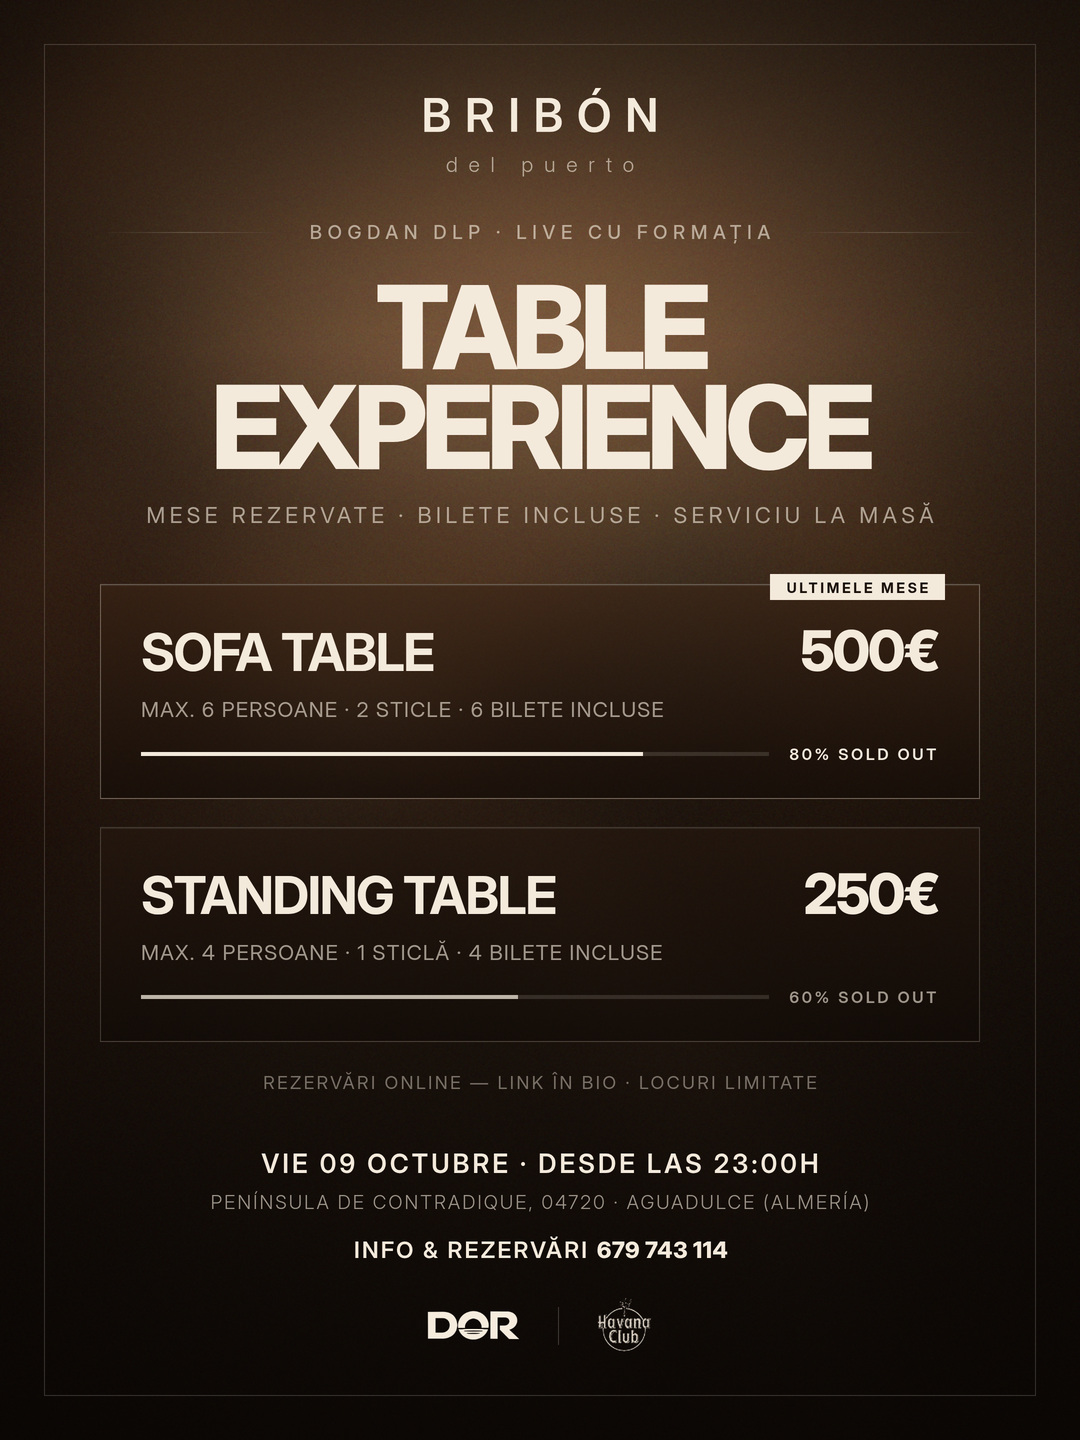
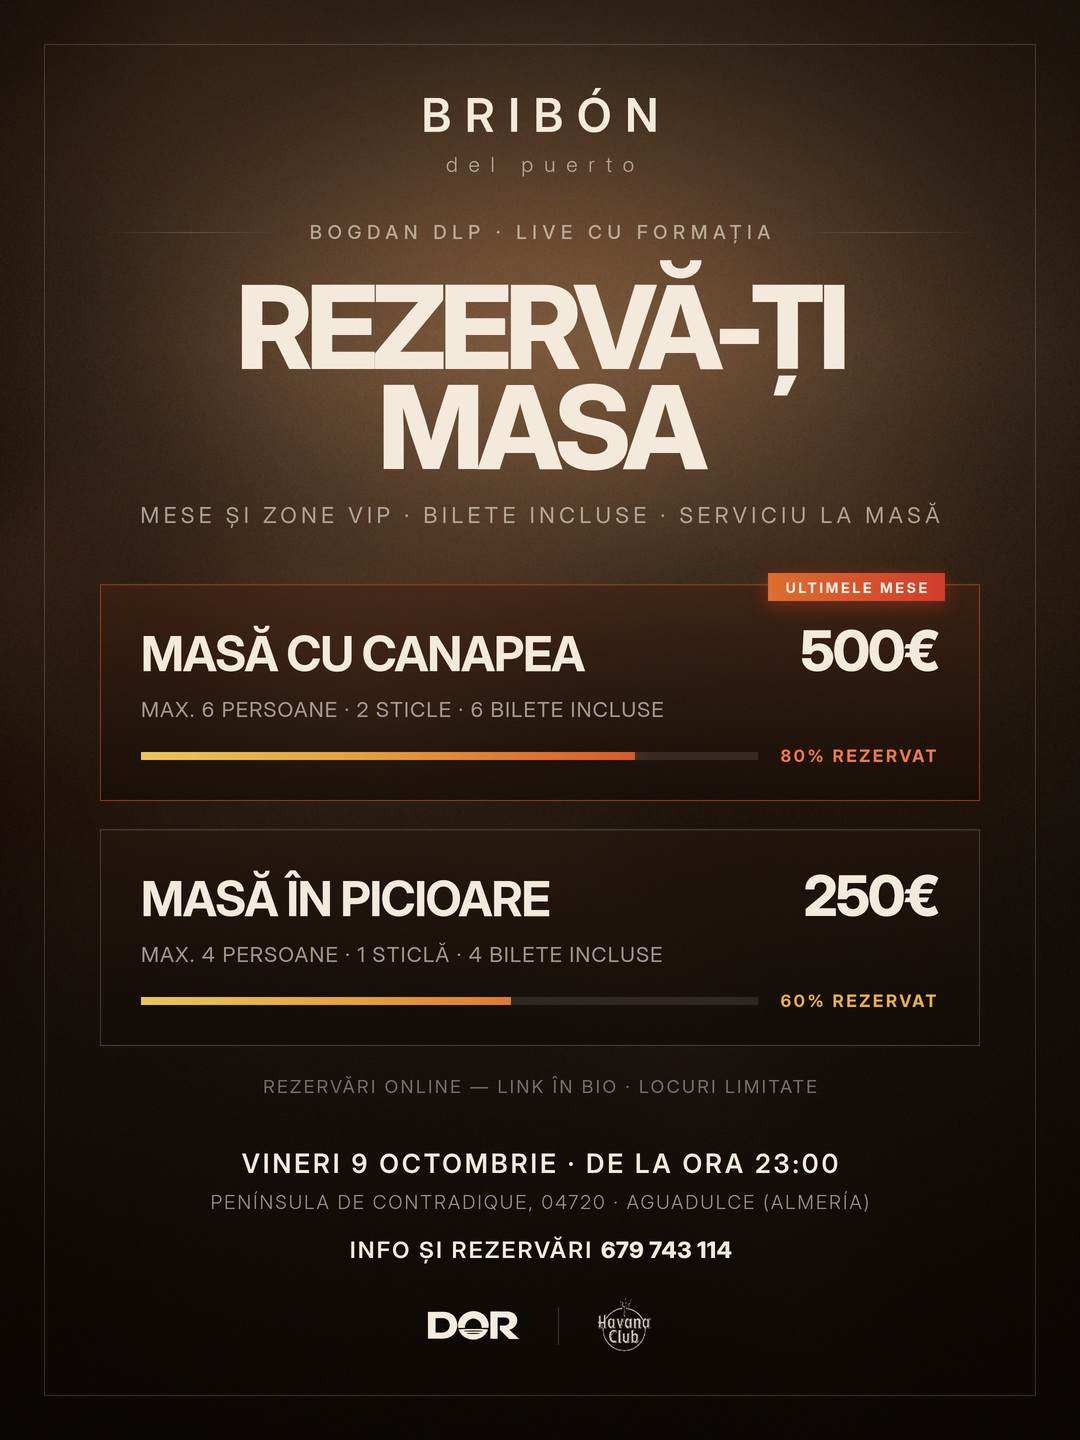
design: translate table graphic to Romanian, add heat-scale availability bars
All copy is now Romanian ("REZERVĂ-ȚI MASA", "MASĂ CU CANAPEA",
"MASĂ ÎN PICIOARE", "% REZERVAT", "VINERI 9 OCTOMBRIE · DE LA ORA 23:00");
only proper nouns stay in the original.

The availability bars carry a shared heat scale (gold -> amber -> orange ->
red) stretched across the full track, with the fill clipping it at the real
percentage. 80% therefore lands in red and 60% stops in orange, so the color
itself reads as urgency. The featured card's border and "ULTIMELE MESE" badge
pick up the same warm accent.

Claude-Session: https://claude.ai/code/session_018LVxPFaAmNJPzujNDfX4Ru

diff --git a/design/dor-mese/mese.html b/design/dor-mese/mese.html
@@ -2,7 +2,7 @@
 <html lang="ro">
 <head>
 <meta charset="utf-8">
-<title>DOR — Table Experience</title>
+<title>DOR — Rezervă-ți masa</title>
 <style>
   @font-face{font-family:ID;src:url(fonts/InterDisplay-ExtraLight.ttf);font-weight:200}
   @font-face{font-family:ID;src:url(fonts/InterDisplay-Light.ttf);font-weight:300}
@@ -18,6 +18,10 @@
     --cream-dim:rgba(244,234,220,.62);
     --cream-faint:rgba(244,234,220,.44);
     --line:rgba(244,234,220,.20);
+    /* scara de ocupare: auriu -> chihlimbar -> portocaliu -> roșu */
+    --heat:linear-gradient(90deg,#E9C65C 0%,#E4A33F 34%,#DC6F30 67%,#D13B2B 100%);
+    --hot:#EE7A45;
+    --warm:#EBAE4E;
   }
   *{margin:0;padding:0;box-sizing:border-box}
   html,body{width:1080px;height:1440px}
@@ -31,14 +35,13 @@
   .canvas{position:relative;width:1080px;height:1440px;overflow:hidden}
   .bg{position:absolute;inset:0;width:100%;height:100%;object-fit:cover}
   .scrim{position:absolute;inset:0;
-    background:
-      linear-gradient(180deg,rgba(12,8,5,.42) 0%,rgba(12,8,5,.00) 24%,rgba(12,8,5,.30) 56%,rgba(9,6,4,.82) 100%);
+    background:linear-gradient(180deg,rgba(12,8,5,.42) 0%,rgba(12,8,5,.00) 24%,rgba(12,8,5,.30) 56%,rgba(9,6,4,.82) 100%);
   }
   .frame{position:absolute;inset:44px;border:1px solid rgba(244,234,220,.18)}
 
   .inner{position:absolute;inset:0;padding:92px 100px 86px;display:flex;flex-direction:column;align-items:center}
 
-  /* ---------- venue lockup ---------- */
+  /* ---------- lockup locație ---------- */
   .venue{font-weight:600;font-size:46px;letter-spacing:.30em;text-indent:.30em;line-height:1}
   .venue-sub{margin-top:14px;font-weight:300;font-size:21px;letter-spacing:.52em;text-indent:.52em;color:var(--cream-dim)}
 
@@ -47,14 +50,12 @@
   .kicker .rule{flex:1;height:1px;background:linear-gradient(90deg,transparent,var(--line),transparent)}
   .kicker span{font-weight:500;font-size:19px;letter-spacing:.30em;text-indent:.30em;color:var(--cream-dim);white-space:nowrap}
 
-  /* ---------- headline ---------- */
+  /* ---------- titlu ---------- */
   .head{margin-top:34px;text-align:center}
-  .head .l1{font-weight:800;font-size:116px;letter-spacing:-.055em;line-height:.86}
-  .head .l2{font-weight:800;font-size:116px;letter-spacing:-.055em;line-height:.86}
-  .head .l2 em{font-style:normal;font-weight:200;letter-spacing:-.02em}
+  .head .l{font-weight:800;font-size:116px;letter-spacing:-.055em;line-height:.86}
   .head-sub{margin-top:24px;font-weight:400;font-size:22px;letter-spacing:.20em;text-indent:.20em;color:var(--cream-dim)}
 
-  /* ---------- cards ---------- */
+  /* ---------- carduri ---------- */
   .cards{margin-top:56px;width:100%;display:flex;flex-direction:column;gap:28px}
   .card{
     position:relative;
@@ -63,26 +64,31 @@
     background:linear-gradient(180deg,rgba(38,24,15,.50),rgba(16,10,6,.62));
     padding:38px 40px 34px;
   }
-  .card.hot{border-color:rgba(244,234,220,.34);background:linear-gradient(180deg,rgba(58,36,21,.58),rgba(20,12,7,.66))}
+  .card.hot{border-color:rgba(221,91,46,.55);background:linear-gradient(180deg,rgba(66,34,18,.60),rgba(20,12,7,.66))}
   .tag{
-    position:absolute;top:-11px;right:34px;
+    position:absolute;top:-12px;right:34px;
     font-weight:700;font-size:14px;letter-spacing:.20em;text-indent:.20em;
-    background:var(--cream);color:#1A100A;padding:5px 14px 4px;
+    background:linear-gradient(90deg,#DC6F30,#D13B2B);color:#FFF3E6;padding:6px 15px 5px;
+    box-shadow:0 4px 18px rgba(209,59,43,.42);
   }
-  .row{display:flex;align-items:baseline;justify-content:space-between}
-  .name{font-weight:700;font-size:52px;letter-spacing:-.025em;line-height:1}
+  .row{display:flex;align-items:baseline;justify-content:space-between;gap:24px}
+  .name{font-weight:700;font-size:48px;letter-spacing:-.025em;line-height:1;white-space:nowrap}
   .price{font-weight:800;font-size:56px;letter-spacing:-.035em;line-height:1}
   .specs{margin-top:18px;font-weight:400;font-size:21px;letter-spacing:.055em;color:var(--cream-dim)}
-  .bar{margin-top:22px;display:flex;align-items:center;gap:18px}
-  .track{flex:1;height:4px;background:rgba(244,234,220,.14);position:relative}
-  .fill{position:absolute;left:0;top:0;bottom:0;background:var(--cream)}
-  .pct{font-weight:600;font-size:16px;letter-spacing:.17em;text-indent:.17em;white-space:nowrap}
-  .card:not(.hot) .pct{color:var(--cream-dim)}
-  .card:not(.hot) .fill{background:rgba(244,234,220,.72)}
+
+  /* ---------- banda de ocupare ---------- */
+  .bar{margin-top:24px;display:flex;align-items:center;gap:20px}
+  .track{flex:1;height:8px;background:rgba(244,234,220,.11);position:relative;overflow:hidden}
+  .fill{position:absolute;left:0;top:0;bottom:0;overflow:hidden}
+  .fill i{position:absolute;left:0;top:0;bottom:0;background:var(--heat);display:block}
+  .pct{font-weight:700;font-size:17px;letter-spacing:.16em;text-indent:.16em;white-space:nowrap}
+  .card.hot .fill{box-shadow:0 0 22px rgba(220,111,48,.45)}
+  .card.hot .pct{color:var(--hot)}
+  .card:not(.hot) .pct{color:var(--warm)}
 
   .note{margin-top:30px;font-weight:400;font-size:18px;letter-spacing:.14em;text-indent:.14em;color:var(--cream-faint);text-align:center;width:100%}
 
-  /* ---------- footer ---------- */
+  /* ---------- subsol ---------- */
   .foot{margin-top:auto;width:100%;text-align:center}
   .foot .when{font-weight:600;font-size:26px;letter-spacing:.12em;text-indent:.12em}
   .foot .where{margin-top:12px;font-weight:300;font-size:19px;letter-spacing:.12em;text-indent:.12em;color:var(--cream-dim)}
@@ -111,28 +117,28 @@
     </div>
 
     <div class="head">
-      <div class="l1">TABLE</div>
-      <div class="l2">EXPERIENCE</div>
-      <div class="head-sub">MESE REZERVATE · BILETE INCLUSE · SERVICIU LA MASĂ</div>
+      <div class="l">REZERVĂ-ȚI</div>
+      <div class="l">MASA</div>
+      <div class="head-sub">MESE ȘI ZONE VIP · BILETE INCLUSE · SERVICIU LA MASĂ</div>
     </div>
 
     <div class="cards">
       <div class="card hot">
         <div class="tag">ULTIMELE MESE</div>
-        <div class="row"><div class="name">SOFA TABLE</div><div class="price">500€</div></div>
+        <div class="row"><div class="name">MASĂ CU CANAPEA</div><div class="price">500€</div></div>
         <div class="specs">MAX. 6 PERSOANE · 2 STICLE · 6 BILETE INCLUSE</div>
         <div class="bar">
-          <div class="track"><div class="fill" style="width:80%"></div></div>
-          <div class="pct">80% SOLD OUT</div>
+          <div class="track"><div class="fill" style="width:80%"><i style="width:125%"></i></div></div>
+          <div class="pct">80% REZERVAT</div>
         </div>
       </div>
 
       <div class="card">
-        <div class="row"><div class="name">STANDING TABLE</div><div class="price">250€</div></div>
+        <div class="row"><div class="name">MASĂ ÎN PICIOARE</div><div class="price">250€</div></div>
         <div class="specs">MAX. 4 PERSOANE · 1 STICLĂ · 4 BILETE INCLUSE</div>
         <div class="bar">
-          <div class="track"><div class="fill" style="width:60%"></div></div>
-          <div class="pct">60% SOLD OUT</div>
+          <div class="track"><div class="fill" style="width:60%"><i style="width:166.667%"></i></div></div>
+          <div class="pct">60% REZERVAT</div>
         </div>
       </div>
     </div>
@@ -140,9 +146,9 @@
     <div class="note">REZERVĂRI ONLINE — LINK ÎN BIO · LOCURI LIMITATE</div>
 
     <div class="foot">
-      <div class="when">VIE 09 OCTUBRE · DESDE LAS 23:00H</div>
+      <div class="when">VINERI 9 OCTOMBRIE · DE LA ORA 23:00</div>
       <div class="where">PENÍNSULA DE CONTRADIQUE, 04720 · AGUADULCE (ALMERÍA)</div>
-      <div class="res">INFO &amp; REZERVĂRI <b>679 743 114</b></div>
+      <div class="res">INFO ȘI REZERVĂRI <b>679 743 114</b></div>
       <div class="logos">
         <img class="dor" src="assets/dor.png">
         <div class="sep"></div>

diff --git a/design/dor-mese/mese_story.html b/design/dor-mese/mese_story.html
@@ -2,7 +2,7 @@
 <html lang="ro">
 <head>
 <meta charset="utf-8">
-<title>DOR — Table Experience Story</title>
+<title>DOR — Rezervă-ți masa (story)</title>
 <style>
   @font-face{font-family:ID;src:url(fonts/InterDisplay-ExtraLight.ttf);font-weight:200}
   @font-face{font-family:ID;src:url(fonts/InterDisplay-Light.ttf);font-weight:300}
@@ -17,6 +17,9 @@
     --cream-dim:rgba(244,234,220,.62);
     --cream-faint:rgba(244,234,220,.44);
     --line:rgba(244,234,220,.20);
+    --heat:linear-gradient(90deg,#E9C65C 0%,#E4A33F 34%,#DC6F30 67%,#D13B2B 100%);
+    --hot:#EE7A45;
+    --warm:#EBAE4E;
   }
   *{margin:0;padding:0;box-sizing:border-box}
   html,body{width:1080px;height:1920px}
@@ -42,18 +45,22 @@
   .cards{margin-top:58px;width:100%;display:flex;flex-direction:column;gap:32px}
   .card{position:relative;border:1px solid var(--line);box-shadow:inset 0 1px 0 rgba(244,234,220,.07);
     background:linear-gradient(180deg,rgba(38,24,15,.50),rgba(16,10,6,.62));padding:38px 42px 34px}
-  .card.hot{border-color:rgba(244,234,220,.34);background:linear-gradient(180deg,rgba(58,36,21,.58),rgba(20,12,7,.66))}
-  .tag{position:absolute;top:-12px;right:36px;font-weight:700;font-size:15px;letter-spacing:.20em;text-indent:.20em;background:var(--cream);color:#1A100A;padding:6px 15px 5px}
-  .row{display:flex;align-items:baseline;justify-content:space-between}
-  .name{font-weight:700;font-size:54px;letter-spacing:-.025em;line-height:1}
+  .card.hot{border-color:rgba(221,91,46,.55);background:linear-gradient(180deg,rgba(66,34,18,.60),rgba(20,12,7,.66))}
+  .tag{position:absolute;top:-12px;right:36px;font-weight:700;font-size:15px;letter-spacing:.20em;text-indent:.20em;
+    background:linear-gradient(90deg,#DC6F30,#D13B2B);color:#FFF3E6;padding:6px 16px 5px;box-shadow:0 4px 18px rgba(209,59,43,.42)}
+  .row{display:flex;align-items:baseline;justify-content:space-between;gap:24px}
+  .name{font-weight:700;font-size:50px;letter-spacing:-.025em;line-height:1;white-space:nowrap}
   .price{font-weight:800;font-size:58px;letter-spacing:-.035em;line-height:1}
   .specs{margin-top:20px;font-weight:400;font-size:22px;letter-spacing:.055em;color:var(--cream-dim)}
-  .bar{margin-top:26px;display:flex;align-items:center;gap:18px}
-  .track{flex:1;height:4px;background:rgba(244,234,220,.14);position:relative}
-  .fill{position:absolute;left:0;top:0;bottom:0;background:var(--cream)}
-  .pct{font-weight:600;font-size:17px;letter-spacing:.17em;text-indent:.17em;white-space:nowrap}
-  .card:not(.hot) .pct{color:var(--cream-dim)}
-  .card:not(.hot) .fill{background:rgba(244,234,220,.72)}
+
+  .bar{margin-top:26px;display:flex;align-items:center;gap:20px}
+  .track{flex:1;height:8px;background:rgba(244,234,220,.11);position:relative;overflow:hidden}
+  .fill{position:absolute;left:0;top:0;bottom:0;overflow:hidden}
+  .fill i{position:absolute;left:0;top:0;bottom:0;background:var(--heat);display:block}
+  .pct{font-weight:700;font-size:18px;letter-spacing:.16em;text-indent:.16em;white-space:nowrap}
+  .card.hot .fill{box-shadow:0 0 22px rgba(220,111,48,.45)}
+  .card.hot .pct{color:var(--hot)}
+  .card:not(.hot) .pct{color:var(--warm)}
 
   .note{margin-top:40px;font-weight:400;font-size:19px;letter-spacing:.14em;text-indent:.14em;color:var(--cream-faint);text-align:center;width:100%}
 
@@ -85,31 +92,37 @@
     </div>
 
     <div class="head">
-      <div class="l">TABLE</div>
-      <div class="l">EXPERIENCE</div>
-      <div class="head-sub">MESE REZERVATE · BILETE INCLUSE · SERVICIU LA MASĂ</div>
+      <div class="l">REZERVĂ-ȚI</div>
+      <div class="l">MASA</div>
+      <div class="head-sub">MESE ȘI ZONE VIP · BILETE INCLUSE · SERVICIU LA MASĂ</div>
     </div>
 
     <div class="cards">
       <div class="card hot">
         <div class="tag">ULTIMELE MESE</div>
-        <div class="row"><div class="name">SOFA TABLE</div><div class="price">500€</div></div>
+        <div class="row"><div class="name">MASĂ CU CANAPEA</div><div class="price">500€</div></div>
         <div class="specs">MAX. 6 PERSOANE · 2 STICLE · 6 BILETE INCLUSE</div>
-        <div class="bar"><div class="track"><div class="fill" style="width:80%"></div></div><div class="pct">80% SOLD OUT</div></div>
+        <div class="bar">
+          <div class="track"><div class="fill" style="width:80%"><i style="width:125%"></i></div></div>
+          <div class="pct">80% REZERVAT</div>
+        </div>
       </div>
       <div class="card">
-        <div class="row"><div class="name">STANDING TABLE</div><div class="price">250€</div></div>
+        <div class="row"><div class="name">MASĂ ÎN PICIOARE</div><div class="price">250€</div></div>
         <div class="specs">MAX. 4 PERSOANE · 1 STICLĂ · 4 BILETE INCLUSE</div>
-        <div class="bar"><div class="track"><div class="fill" style="width:60%"></div></div><div class="pct">60% SOLD OUT</div></div>
+        <div class="bar">
+          <div class="track"><div class="fill" style="width:60%"><i style="width:166.667%"></i></div></div>
+          <div class="pct">60% REZERVAT</div>
+        </div>
       </div>
     </div>
 
     <div class="note">REZERVĂRI ONLINE — LINK ÎN BIO · LOCURI LIMITATE</div>
 
     <div class="foot">
-      <div class="when">VIE 09 OCTUBRE · DESDE LAS 23:00H</div>
+      <div class="when">VINERI 9 OCTOMBRIE · DE LA ORA 23:00</div>
       <div class="where">PENÍNSULA DE CONTRADIQUE, 04720 · AGUADULCE (ALMERÍA)</div>
-      <div class="res">INFO &amp; REZERVĂRI <b>679 743 114</b></div>
+      <div class="res">INFO ȘI REZERVĂRI <b>679 743 114</b></div>
       <div class="logos">
         <img class="dor" src="assets/dor.png">
         <div class="sep"></div>

diff --git a/design/dor-mese/README.md b/design/dor-mese/README.md
@@ -1,4 +1,4 @@
-# DOR — Table Experience (grafică mese)
+# DOR — Rezervă-ți masa (grafică mese)
 
 Grafică secundară pentru mese, derivată din afișul principal
 **Bogdan DLP · live cu formația — Bribón del Puerto, 9 octombrie 2026**.
@@ -32,11 +32,26 @@ micșoreaz-o la dimensiunea nominală (Lanczos) înainte de publicare.
 - Titraj Inter Display ExtraBold, tracking `-0.055em` (litere strânse, ca „Bogdan DLP").
 - Etichete și date: majuscule, tracking larg (`0.12em`–`0.30em`).
 - Chenar subțire interior, cu 44px margine — ramă discretă comună celor două formate.
-- Cardurile de masă: hairline crem 20% opacitate; cardul SOFA e evidențiat
-  (bordură mai puternică + etichetă „ULTIMELE MESE").
-- Barele de disponibilitate reflectă 80% / 60% sold out.
+- Cardurile de masă: hairline crem 20% opacitate; cardul cu canapea e evidențiat
+  (bordură portocalie + etichetă „ULTIMELE MESE").
+- Banda de ocupare folosește o scară de căldură comună celor două carduri:
+  auriu `#E9C65C` → chihlimbar `#E4A33F` → portocaliu `#DC6F30` → roșu `#D13B2B`,
+  întinsă pe lățimea totală a pistei. Umplerea decupează gradientul la procentul
+  real, deci 80% ajunge în roșu iar 60% se oprește în portocaliu — culoarea
+  comunică urgența fără să mai fie nevoie de citit procentul.
+- Tot textul este în limba română; rămân în original doar numele proprii
+  (Bribón del Puerto, Bogdan DLP, adresa din Aguadulce, DOR, Havana Club).
 
 ## De actualizat când se schimbă stocul
 
-În ambele HTML-uri: `style="width:80%"` / `style="width:60%"` pe `.fill`,
-textul din `.pct` și eticheta `.tag`.
+În ambele HTML-uri, pentru fiecare card:
+
+```html
+<div class="fill" style="width:80%"><i style="width:125%"></i></div>
+```
+
+- `.fill` → procentul ocupat (`width:80%`).
+- `<i>` → inversul aceluiași procent, ca gradientul să rămână aliniat între
+  carduri: `width: 100/procent * 100%` (80% → `125%`, 60% → `166.667%`,
+  50% → `200%`, 100% → `100%`).
+- Textul din `.pct` și, dacă e cazul, eticheta `.tag`.
